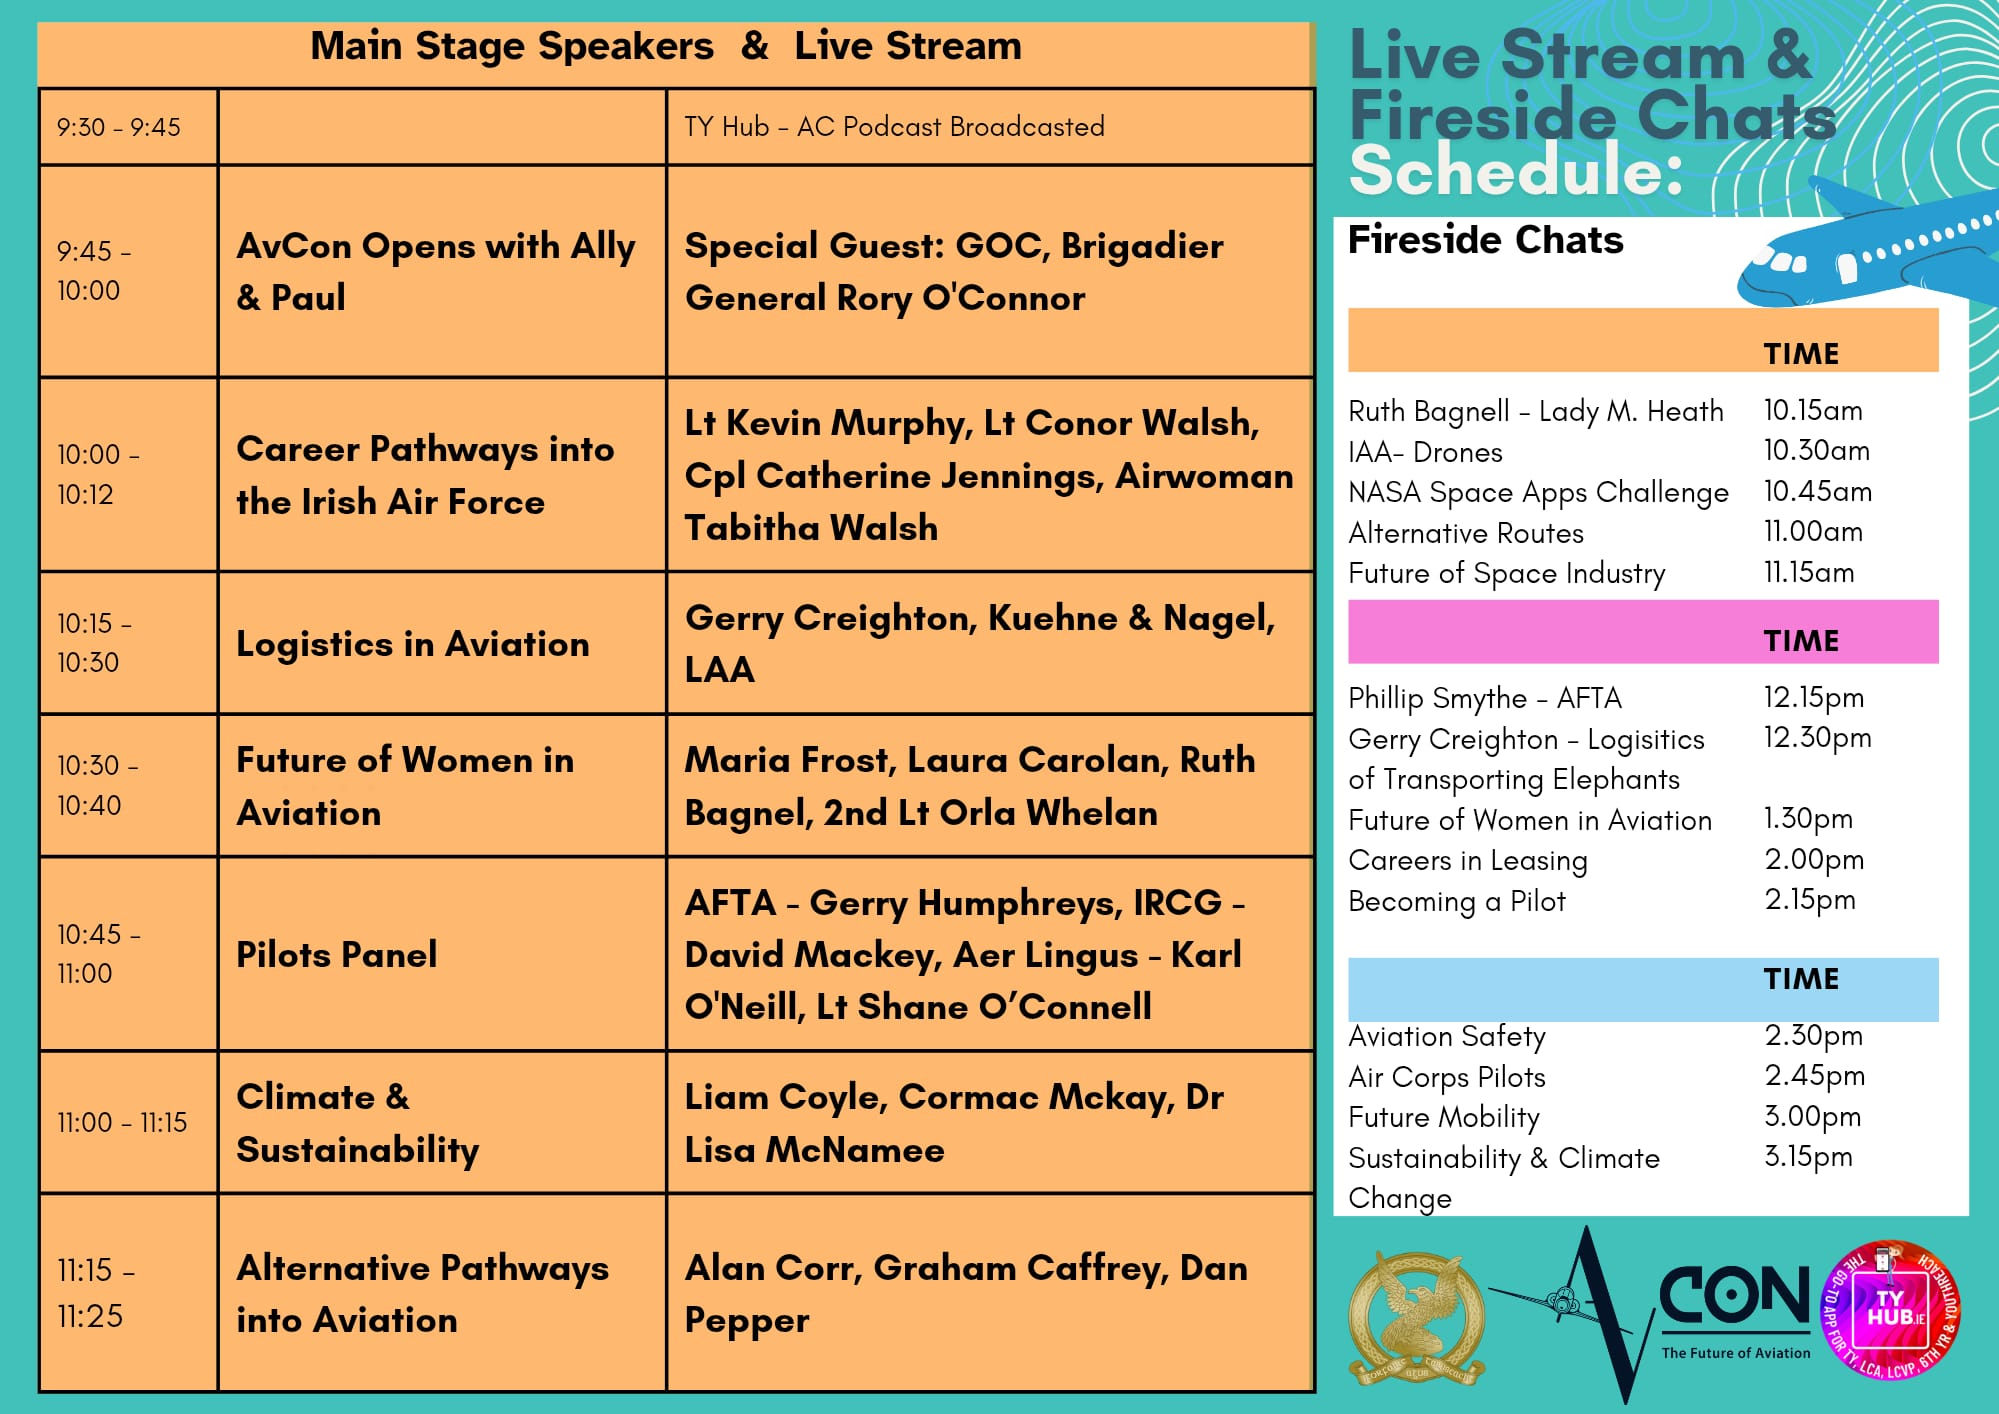
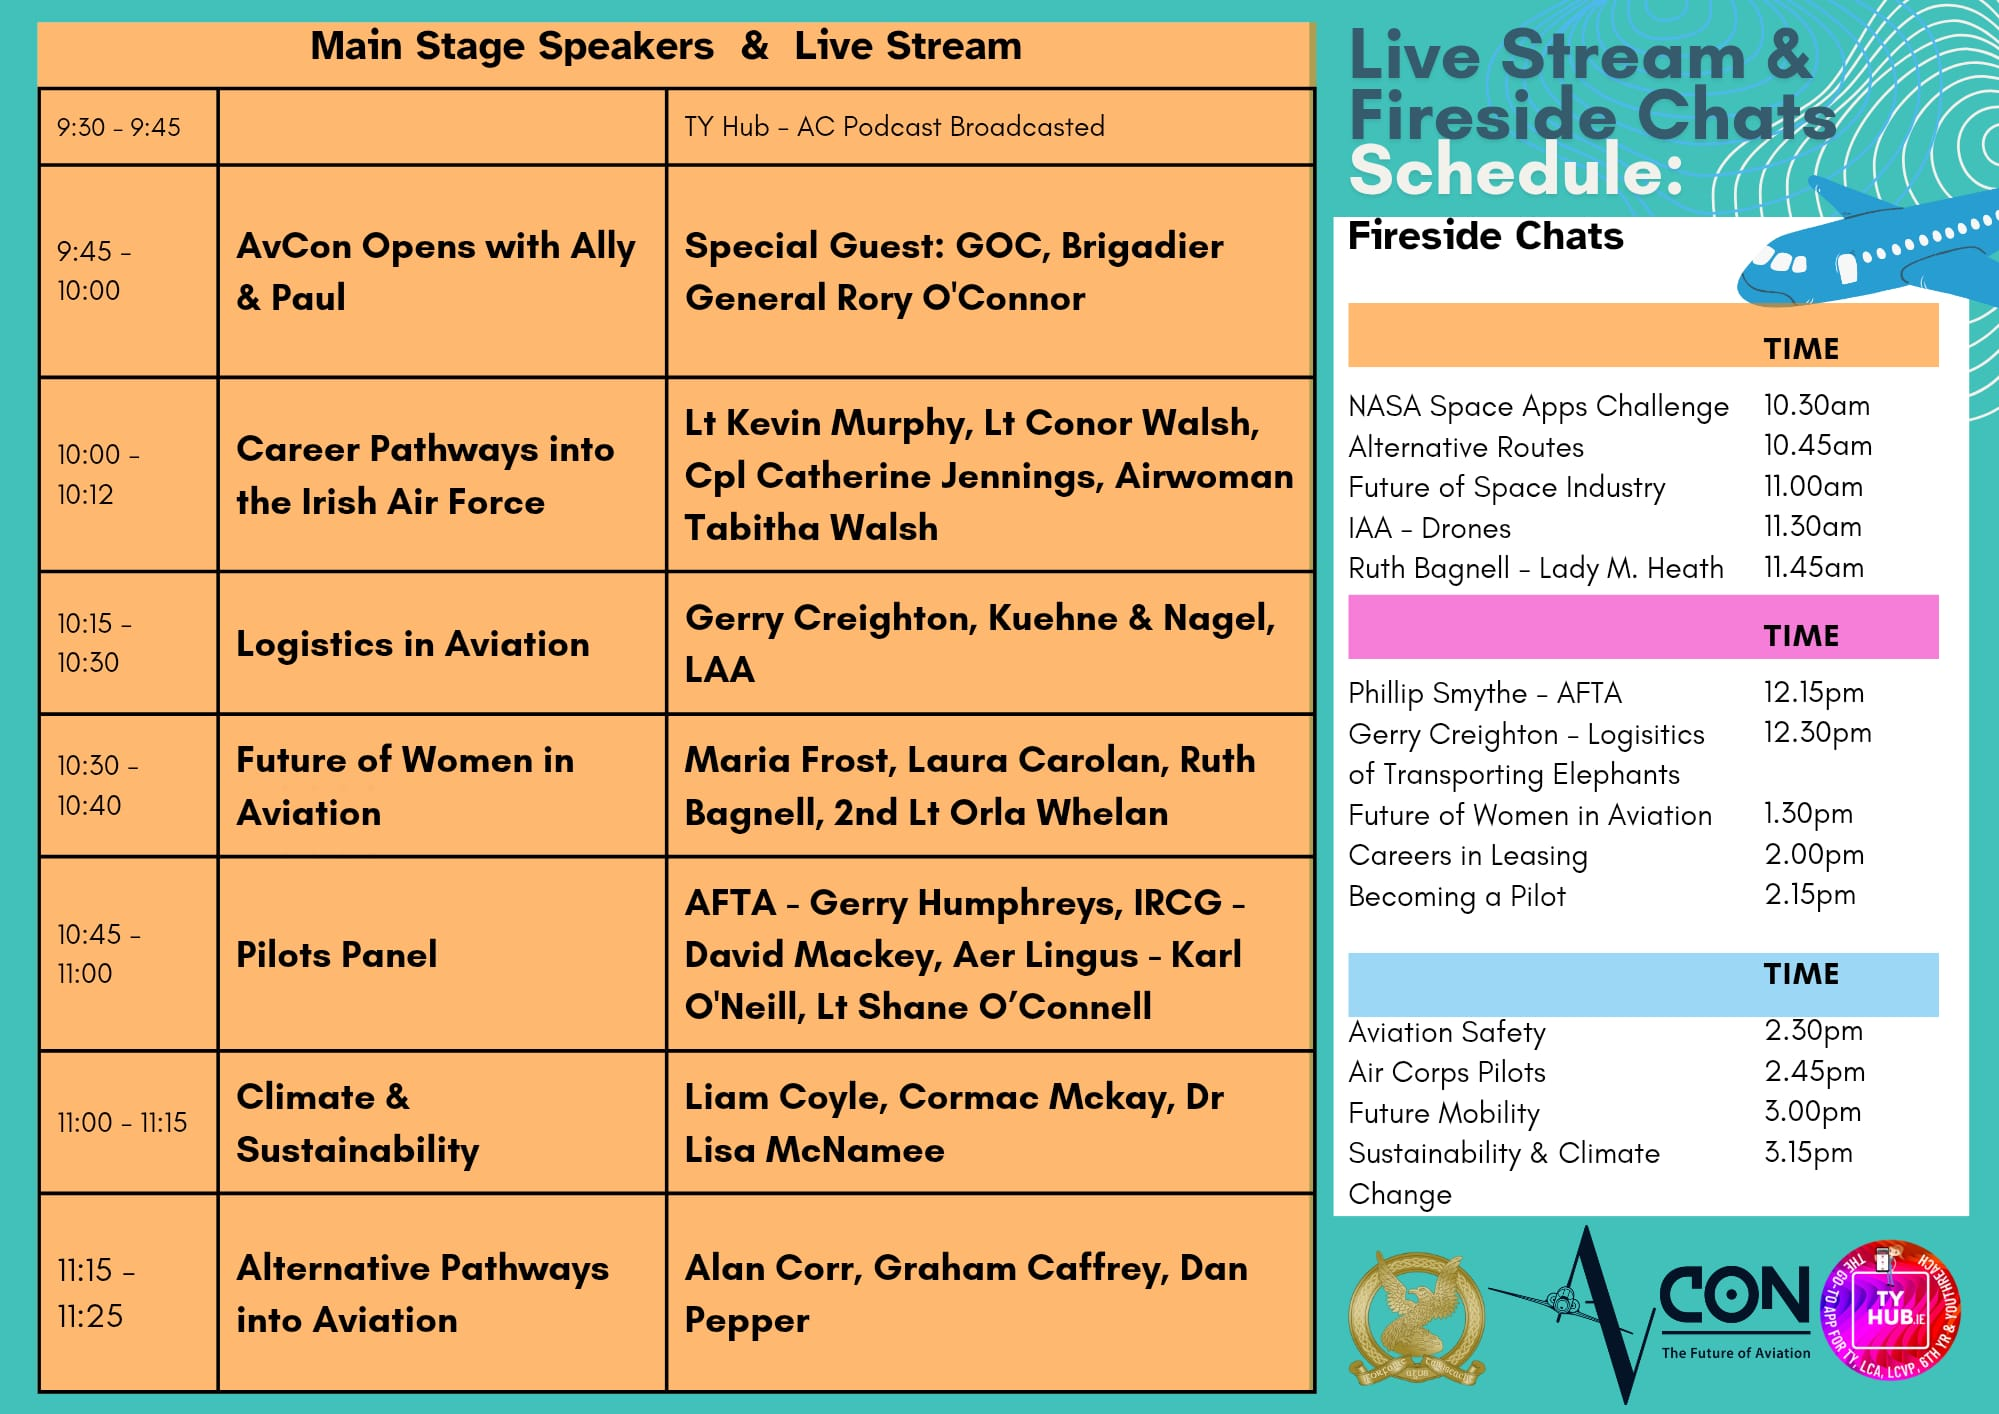
Making ajustments to event schedule

Changed region(s): [[0.6513, 0.1556, 0.9615, 0.8713], [0.4032, 0.5601, 0.5893, 0.5912]]

diff --git a/src/EventSchedule/eventSchedule.jsx b/src/EventSchedule/eventSchedule.jsx
@@ -1,8 +1,5 @@
 import React from "react";
 import AVConSchedule from "./EventScheduleImages/AVConEventSchedule2025.png";
-import Session1 from "./EventScheduleImages/Event1.png";
-import Session2 from "./EventScheduleImages/Event2.png";
-import Session3 from "./EventScheduleImages/Event3.png";
 import Schedule1 from "./EventScheduleImages/Schedule1.jpeg";
 import Schedule2 from "./EventScheduleImages/Schedule2.jpeg";
 import Schedule3 from "./EventScheduleImages/Schedule3.jpeg";
@@ -27,17 +24,6 @@ export default function EventSchedule() {
                         <img src={Schedule4} alt="AVCon Schedule 4" className="schedule-image" />
                 </div>
 
-                {/* <div>
-                    <div className="other-grid">
-                        <img src={AVConSchedule} alt="AVCon Event Schedule 2025" className="schedule-image" />
-                        <div>
-                            <h6>We're preparing another exciting line-up of speakers, workshops, and interactive experiences designed to inspire the next generation of aviation and aerospace talent.</h6>
-                            <br/><br/>
-                            <h6>In the meantime, take a look at the 2024 Event Schedule to see the incredible range of sessions and experiences from last year's event — including talks from industry leaders, tech demos, aircraft displays, and student spotlights.</h6>
-                        </div>
-                    </div>
-                </div> */}
-
                 <div className="live-stream">
                     <h5 className="live-stream-title">Take a look at the 2024 LIVE STREAM on YouTube</h5>
                     <div className="video-container">
@@ -51,13 +37,15 @@ export default function EventSchedule() {
                         />
                     </div>
                 </div>
-
-                <h6 className="live-stream-title">Event Schedule 2024</h6>
-
-                <div className="images-grid">
-                    <img src={Session1} alt="AVCon Session 1" className="schedule-image" />
-                    <img src={Session2} alt="AVCon Session 2" className="schedule-image" />
-                    <img src={Session3} alt="AVCon Session 3" className="schedule-image" />
+                <div>
+                    <div className="other-grid">
+                        <img src={AVConSchedule} alt="AVCon Event Schedule 2025" className="schedule-image" />
+                        <div>
+                            <h6>We're preparing another exciting line-up of speakers, workshops, and interactive experiences designed to inspire the next generation of aviation and aerospace talent.</h6>
+                            <br/><br/>
+                            <h6>In the meantime, take a look at the 2024 Event Schedule to see the incredible range of sessions and experiences from last year's event — including talks from industry leaders, tech demos, aircraft displays, and student spotlights.</h6>
+                        </div>
+                    </div>
                 </div>
             </div>
 
